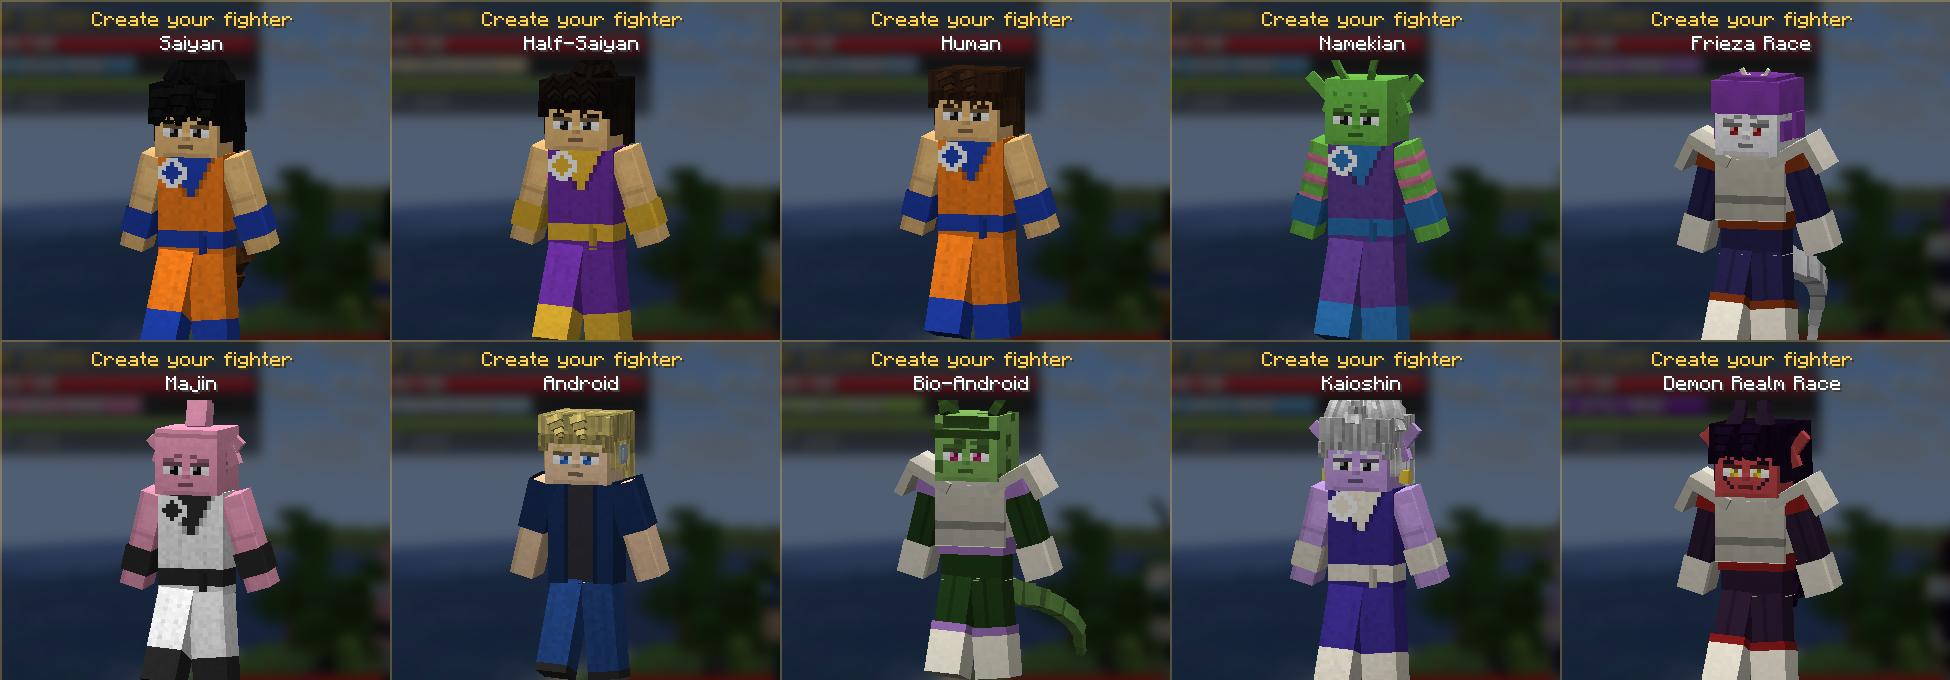
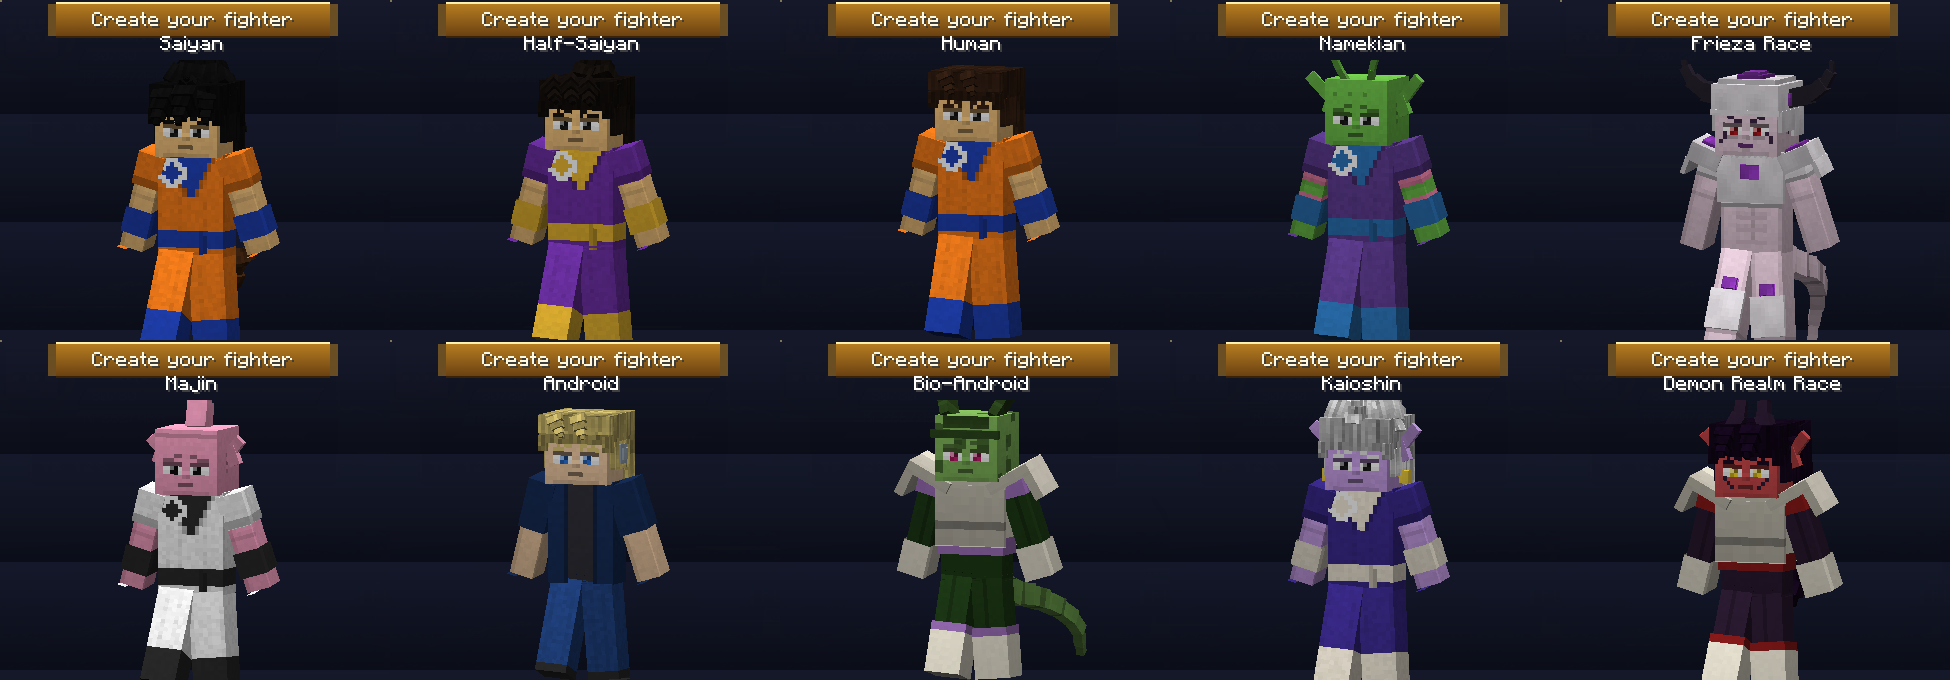
Redesign Frieza Race look after the first form and add Natural outfit

diff --git a/common/src/main/java/com/dbtenkaichi/client/render/TenkaichiModels.java b/common/src/main/java/com/dbtenkaichi/client/render/TenkaichiModels.java
@@ -50,7 +50,19 @@ public final class TenkaichiModels {
     public enum FeatureTint {
         SKIN,
         ACCENT,
-        HORN
+        HORN,
+        PLATE,
+        GEM,
+        BODY_PLATE,
+        BODY_GEM;
+
+        public boolean bodyOnly() {
+            return this == BODY_PLATE || this == BODY_GEM;
+        }
+
+        public boolean gem() {
+            return this == GEM || this == BODY_GEM;
+        }
     }
 
     private TenkaichiModels() {
@@ -273,18 +285,62 @@ public final class TenkaichiModels {
                 }
             }
             case FRIEZA_RACE -> {
-                if (tint == FeatureTint.ACCENT) {
-                    head.addOrReplaceChild("dome", CubeListBuilder.create().texOffs(0, 0)
-                            .addBox(-4.45f, -9.1f, -4.3f, 8.9f, 4.0f, 8.9f)
-                            .texOffs(0, 16).addBox(-3.6f, -9.6f, -3.2f, 7.2f, 0.6f, 7.0f)
-                            .texOffs(0, 24).addBox(-4.5f, -5.0f, 1.5f, 9.0f, 3.2f, 3.1f), PartPose.ZERO);
-                    head.addOrReplaceChild("cheek_l", CubeListBuilder.create().texOffs(32, 24).addBox(-4.55f, -4.2f, -3.0f, 0.5f, 2.4f, 3.0f), PartPose.ZERO);
-                    head.addOrReplaceChild("cheek_r", CubeListBuilder.create().texOffs(32, 24).addBox(4.05f, -4.2f, -3.0f, 0.5f, 2.4f, 3.0f), PartPose.ZERO);
-                } else if (tint == FeatureTint.HORN) {
-                    b.curved(-4.0f, -7.2f, -0.6f, 0.0f, 0.0f, 1.45f, 7.0f, 1.9f, -0.32f, 0.0f);
-                    b.curved(4.0f, -7.2f, -0.6f, 0.0f, 0.0f, -1.45f, 7.0f, 1.9f, 0.32f, 0.0f);
-                } else {
-                    any = false;
+                PartDefinition root = mesh.getRoot();
+                switch (tint) {
+                    case PLATE -> {
+                        head.addOrReplaceChild("dome", CubeListBuilder.create().texOffs(0, 0)
+                                .addBox(-4.4f, -8.7f, -4.45f, 8.8f, 3.3f, 8.9f)
+                                .texOffs(0, 14).addBox(-3.7f, -9.3f, -3.7f, 7.4f, 0.7f, 7.4f)
+                                .texOffs(0, 24).addBox(-4.45f, -5.5f, 1.0f, 8.9f, 3.4f, 3.5f), PartPose.ZERO);
+                        head.addOrReplaceChild("brow", CubeListBuilder.create().texOffs(0, 34)
+                                .addBox(-4.45f, -5.6f, -4.5f, 8.9f, 0.7f, 0.6f), PartPose.ZERO);
+                        head.addOrReplaceChild("cheek_l", CubeListBuilder.create().texOffs(32, 24)
+                                .addBox(-4.55f, -5.5f, -3.6f, 0.6f, 2.6f, 4.8f), PartPose.ZERO);
+                        head.addOrReplaceChild("cheek_r", CubeListBuilder.create().texOffs(32, 24)
+                                .addBox(3.95f, -5.5f, -3.6f, 0.6f, 2.6f, 4.8f), PartPose.ZERO);
+                    }
+                    case GEM -> {
+                        head.addOrReplaceChild("crown_gem", CubeListBuilder.create().texOffs(0, 0)
+                                .addBox(-1.7f, -9.75f, -2.6f, 3.4f, 0.6f, 4.4f)
+                                .texOffs(0, 8).addBox(-1.1f, -10.05f, -1.9f, 2.2f, 0.4f, 3.0f), PartPose.ZERO);
+                        head.addOrReplaceChild("side_gem_l", CubeListBuilder.create().texOffs(16, 0)
+                                .addBox(-4.75f, -7.6f, -1.2f, 0.4f, 1.6f, 2.4f), PartPose.ZERO);
+                        head.addOrReplaceChild("side_gem_r", CubeListBuilder.create().texOffs(16, 0)
+                                .addBox(4.35f, -7.6f, -1.2f, 0.4f, 1.6f, 2.4f), PartPose.ZERO);
+                    }
+                    case HORN -> {
+                        b.curved(-4.2f, -6.8f, 0.4f, 0.0f, 0.0f, -1.35f, 8.0f, 2.3f, 0.42f, 0.0f);
+                        b.curved(4.2f, -6.8f, 0.4f, 0.0f, 0.0f, 1.35f, 8.0f, 2.3f, -0.42f, 0.0f);
+                    }
+                    case BODY_PLATE -> {
+                        root.getChild("body").addOrReplaceChild("chest", CubeListBuilder.create().texOffs(0, 0)
+                                .addBox(-4.3f, -0.3f, -2.5f, 8.6f, 6.2f, 0.7f)
+                                .texOffs(0, 8).addBox(-4.3f, -0.3f, 1.8f, 8.6f, 6.2f, 0.7f)
+                                .texOffs(0, 16).addBox(-4.3f, -0.4f, -2.5f, 8.6f, 0.8f, 5.0f), PartPose.ZERO);
+                        root.getChild("right_arm").addOrReplaceChild("shoulder", CubeListBuilder.create().texOffs(0, 24)
+                                .addBox(-3.6f, -2.6f, -2.5f, 4.2f, 2.4f, 5.0f)
+                                .texOffs(0, 32).addBox(-3.75f, -0.4f, -2.4f, 0.6f, 2.2f, 4.8f), PartPose.rotation(0.0f, 0.0f, 0.12f));
+                        root.getChild("left_arm").addOrReplaceChild("shoulder", CubeListBuilder.create().texOffs(0, 24).mirror()
+                                .addBox(-0.6f, -2.6f, -2.5f, 4.2f, 2.4f, 5.0f)
+                                .texOffs(0, 32).addBox(3.15f, -0.4f, -2.4f, 0.6f, 2.2f, 4.8f), PartPose.rotation(0.0f, 0.0f, -0.12f));
+                        root.getChild("right_leg").addOrReplaceChild("shin", CubeListBuilder.create().texOffs(0, 40)
+                                .addBox(-2.2f, 5.5f, -2.45f, 4.4f, 5.0f, 0.6f), PartPose.ZERO);
+                        root.getChild("left_leg").addOrReplaceChild("shin", CubeListBuilder.create().texOffs(0, 40)
+                                .addBox(-2.2f, 5.5f, -2.45f, 4.4f, 5.0f, 0.6f), PartPose.ZERO);
+                    }
+                    case BODY_GEM -> {
+                        root.getChild("body").addOrReplaceChild("chest_gem", CubeListBuilder.create().texOffs(0, 0)
+                                .addBox(-1.2f, 1.2f, -2.75f, 2.4f, 1.8f, 0.4f), PartPose.ZERO);
+                        root.getChild("right_arm").addOrReplaceChild("shoulder_gem", CubeListBuilder.create().texOffs(0, 8)
+                                .addBox(-2.7f, -2.95f, -1.4f, 2.4f, 0.5f, 2.8f), PartPose.rotation(0.0f, 0.0f, 0.12f));
+                        root.getChild("left_arm").addOrReplaceChild("shoulder_gem", CubeListBuilder.create().texOffs(0, 8)
+                                .addBox(0.3f, -2.95f, -1.4f, 2.4f, 0.5f, 2.8f), PartPose.rotation(0.0f, 0.0f, -0.12f));
+                        root.getChild("right_leg").addOrReplaceChild("knee_gem", CubeListBuilder.create().texOffs(0, 16)
+                                .addBox(-0.9f, 4.0f, -2.6f, 1.8f, 1.4f, 0.4f), PartPose.ZERO);
+                        root.getChild("left_leg").addOrReplaceChild("knee_gem", CubeListBuilder.create().texOffs(0, 16)
+                                .addBox(-0.9f, 4.0f, -2.6f, 1.8f, 1.4f, 0.4f), PartPose.ZERO);
+                    }
+                    default -> any = false;
                 }
             }
             case MAJIN -> {

diff --git a/common/src/main/java/com/dbtenkaichi/client/render/CustomSkins.java b/common/src/main/java/com/dbtenkaichi/client/render/CustomSkins.java
@@ -102,10 +102,11 @@ public final class CustomSkins {
             face();
             ears();
             raceDetails();
-            switch (Math.max(0, Math.min(2, a.outfit))) {
+            switch (Math.max(0, Math.min(Appearance.OUTFITS - 1, a.outfit))) {
                 case 0 -> gi();
                 case 1 -> armor();
-                default -> casual();
+                case 2 -> casual();
+                default -> natural();
             }
             return img;
         }
@@ -245,7 +246,7 @@ public final class CustomSkins {
         private void face() {
             int fx = 8 * S;
             int fy = 8 * S;
-            int brow = bald ? shade(skin, 0.6f) : shade(hairColor, 0.9f);
+            int brow = race == Race.FRIEZA_RACE ? 0x3A2440 : bald ? shade(skin, 0.6f) : shade(hairColor, 0.9f);
             int browY = fy + 6;
             switch (a.eyebrowStyle) {
                 case 1 -> {
@@ -387,14 +388,44 @@ public final class CustomSkins {
                     }
                 }
                 case FRIEZA_RACE -> {
-                    rect(8 * S, 0, 16, 16, feature, 1.1f, 0.95f, 0.04f);
-                    rect(24 * S, 8 * S, 16, 8, feature, 1.0f, 0.9f, 0.04f);
-                    rect(20 * S + 2, 20 * S + 2, 12, 10, feature, 1.12f, 0.95f, 0.04f);
-                    for (int[] limb : new int[][]{{44, 16}, {36, 48}}) {
-                        rect(limb[0] * S, (limb[1] + 4) * S, 8, 4, feature, 1.1f, 1.0f, 0.04f);
-                    }
-                    for (int[] leg : new int[][]{{4, 16}, {20, 48}}) {
-                        rect(leg[0] * S, (leg[1] + 4) * S + 12, 8, 6, feature, 1.1f, 0.95f, 0.04f);
+                    int plate = TenkaichiLayers.plateColor(skin);
+                    int dark = 0x3A2440;
+                    rect(8 * S, 0, 16, 16, plate, 1.08f, 0.96f, 0.03f);
+                    rect(0, 8 * S, 16, 7, plate, 0.95f, 0.88f, 0.03f);
+                    rect(16 * S, 8 * S, 16, 7, plate, 0.95f, 0.88f, 0.03f);
+                    rect(24 * S, 8 * S, 16, 9, plate, 0.9f, 0.82f, 0.03f);
+                    rect(8 * S, 8 * S, 16, 5, plate, 1.06f, 0.98f, 0.03f);
+                    rect(8 * S + 6, 2, 4, 6, feature, 1.15f, 0.85f, 0.02f);
+                    int fx = 8 * S;
+                    int fy = 8 * S;
+                    line(fx, fy + 5, fx + 15, fy + 5, shade(plate, 0.7f));
+                    line(fx + 2, fy + 10, fx + 1, fy + 12, dark);
+                    line(fx + 13, fy + 10, fx + 14, fy + 12, dark);
+                    line(fx + 3, fy + 11, fx + 5, fy + 11, shade(skin, 0.75f));
+                    line(fx + 10, fy + 11, fx + 12, fy + 11, shade(skin, 0.75f));
+                    line(fx + 6, fy + 13, fx + 9, fy + 13, 0x5A2A68);
+                    line(fx + 7, fy + 14, fx + 8, fy + 14, shade(skin, 0.8f));
+                    px(0 * S + 7, 8 * S + 10, dark);
+                    px(16 * S + 8, 8 * S + 10, dark);
+                    if (a.outfit == Appearance.OUTFIT_NATURAL) {
+                        rect(20 * S, 20 * S, 16, 12, plate, 1.08f, 0.95f, 0.03f);
+                        rect(32 * S, 20 * S, 16, 12, plate, 0.85f, 0.78f, 0.03f);
+                        line(20 * S + 7, 20 * S + 2, 20 * S + 7, 20 * S + 11, shade(plate, 0.8f));
+                        line(20 * S, 20 * S + 12, 20 * S + 15, 20 * S + 12, shade(plate, 0.6f));
+                        rect(20 * S + 6, 20 * S + 3, 4, 3, feature, 1.15f, 0.85f, 0.02f);
+                        for (int row = 15; row < 23; row += 3) {
+                            line(20 * S + 4, 20 * S + row, 20 * S + 11, 20 * S + row, shade(skin, 0.86f));
+                        }
+                        for (int[] limb : new int[][]{{40, 16}, {32, 48}}) {
+                            rect((limb[0] + 4) * S, limb[1] * S, 8, 8, plate, 1.1f, 1.0f, 0.03f);
+                            rect(limb[0] * S, (limb[1] + 4) * S, 32, 5, plate, 1.0f, 0.9f, 0.03f);
+                            line(limb[0] * S, (limb[1] + 4) * S + 5, limb[0] * S + 31, (limb[1] + 4) * S + 5, shade(plate, 0.65f));
+                        }
+                        for (int[] leg : new int[][]{{0, 16}, {16, 48}}) {
+                            rect((leg[0] + 4) * S, (leg[1] + 4) * S + 11, 8, 10, plate, 1.06f, 0.94f, 0.03f);
+                            rect((leg[0] + 4) * S + 2, (leg[1] + 4) * S + 8, 4, 3, feature, 1.15f, 0.85f, 0.02f);
+                            line(leg[0] * S, (leg[1] + 4) * S + 21, leg[0] * S + 31, (leg[1] + 4) * S + 21, shade(skin, 0.7f));
+                        }
                     }
                 }
                 case MAJIN -> {
@@ -606,6 +637,22 @@ public final class CustomSkins {
             coverTops(suit, suit);
             hd(44, 32, 4, 4, plate, 1.1f, 1.0f, 0.03f);
             hd(52, 48, 4, 4, plate, 1.1f, 1.0f, 0.03f);
+        }
+
+        private void natural() {
+            overlayClear();
+            if (race == Race.FRIEZA_RACE) {
+                return;
+            }
+            int shorts = a.outfitPrimary;
+            int belt = a.outfitSecondary;
+            faceRows(16, 16, 8, 12, 4, 9, 12, shorts, 0.06f);
+            faceRows(16, 16, 8, 12, 4, 9, 10, belt, 0.04f);
+            faceRows(0, 16, 4, 12, 4, 0, 5, shorts, 0.06f);
+            faceRows(16, 48, 4, 12, 4, 0, 5, shorts, 0.06f);
+            hd(4, 16, 4, 4, shorts, 0.8f, 0.75f, 0.05f);
+            hd(20, 48, 4, 4, shorts, 0.8f, 0.75f, 0.05f);
+            hd(28, 16, 8, 4, shorts, 0.7f, 0.65f, 0.05f);
         }
 
         private void casual() {

diff --git a/common/src/main/java/com/dbtenkaichi/client/render/TenkaichiLayers.java b/common/src/main/java/com/dbtenkaichi/client/render/TenkaichiLayers.java
@@ -5,6 +5,7 @@ import com.dbtenkaichi.client.ClientState;
 import com.dbtenkaichi.client.EntityVisual;
 import com.dbtenkaichi.config.ClientConfig;
 import com.dbtenkaichi.config.ConfigManager;
+import com.dbtenkaichi.player.Appearance;
 import com.dbtenkaichi.player.HairStyle;
 import com.dbtenkaichi.race.Race;
 import com.dbtenkaichi.race.RacePassive;
@@ -34,6 +35,7 @@ public final class TenkaichiLayers {
     public static final Identifier HAIR_TEXTURE = Tenkaichi.id("textures/entity/hair.png");
     public static final Identifier TAIL_TEXTURE = Tenkaichi.id("textures/entity/tail.png");
     public static final Identifier AURA_TEXTURE = Tenkaichi.id("textures/entity/aura_swirl.png");
+    public static final Identifier GEM_TEXTURE = Tenkaichi.id("textures/entity/gem.png");
     public static final Identifier FEATURE_TEXTURE = Tenkaichi.id("textures/entity/feature.png");
     public static final Identifier THICK_TAIL_TEXTURE = Tenkaichi.id("textures/entity/thick_tail.png");
     public static final Identifier ARMOR_PAD_TEXTURE = Tenkaichi.id("textures/entity/armor_pad.png");
@@ -189,19 +191,30 @@ public final class TenkaichiLayers {
                 if (byTint == null) {
                     return;
                 }
+                boolean natural = visual.appearance.outfit == Appearance.OUTFIT_NATURAL;
                 for (Map.Entry<TenkaichiModels.FeatureTint, HairModel> entry : byTint.entrySet()) {
-                    int color = switch (entry.getKey()) {
+                    TenkaichiModels.FeatureTint tint = entry.getKey();
+                    if (tint.bodyOnly() && !natural) {
+                        continue;
+                    }
+                    int color = switch (tint) {
                         case SKIN -> visual.appearance.skinColor;
-                        case ACCENT -> visual.appearance.featureColor;
-                        case HORN -> visual.race == Race.FRIEZA_RACE ? 0xE8E2D4 : visual.appearance.featureColor;
+                        case ACCENT, GEM, BODY_GEM -> visual.appearance.featureColor;
+                        case HORN -> visual.race == Race.FRIEZA_RACE ? 0x2A2430 : visual.appearance.featureColor;
+                        case PLATE, BODY_PLATE -> plateColor(visual.appearance.skinColor);
                     };
-                    collector.submitModel(entry.getValue(), state, poseStack, RenderTypes.entityCutout(FEATURE_TEXTURE), light, OverlayTexture.NO_OVERLAY,
+                    Identifier texture = tint.gem() ? GEM_TEXTURE : FEATURE_TEXTURE;
+                    collector.submitModel(entry.getValue(), state, poseStack, RenderTypes.entityCutout(texture), light, OverlayTexture.NO_OVERLAY,
                             0xFF000000 | color, null, state.outlineColor);
                 }
             } catch (RuntimeException e) {
                 RenderGuard.report("feature", e);
             }
         }
+    }
+
+    public static int plateColor(int skin) {
+        return EntityVisual.mix(0xF6F4F8, skin, 0.12f);
     }
 
     static final class GearLayer extends RenderLayer<AvatarRenderState, PlayerModel> {

diff --git a/common/src/main/java/com/dbtenkaichi/client/screen/CharacterCreatorScreen.java b/common/src/main/java/com/dbtenkaichi/client/screen/CharacterCreatorScreen.java
@@ -34,12 +34,12 @@ public class CharacterCreatorScreen extends Screen {
     private static final int[] OUTFIT_COLORS = {0xF07A1A, 0x1F3FAE, 0x1C1C2A, 0xEDE7D6, 0x7A1C1C, 0x2F6B3A, 0x5A2F8A, 0xD9B21A, 0x3A3A3A, 0x8FB8E8, 0xC8C8C8, 0xF2F2F2};
 
     private static final int[] NAMEKIAN_SKIN = {0x6DBF4A, 0x5AA63C, 0x7FD05A, 0x4E8F34, 0x8CC86A, 0x3F7A2C};
-    private static final int[] FRIEZA_SKIN = {0xF2F0F4, 0xE4DCEC, 0xD8D8E0, 0xC8B8D8, 0xB8A0C8, 0xE8E0D0};
+    private static final int[] FRIEZA_SKIN = {0xE6CCDA, 0xEED8E4, 0xDCC4E2, 0xD8D0E8, 0xC8B0D0, 0xE8DCD0, 0xB8A8C8, 0x9C88B0};
     private static final int[] MAJIN_SKIN = {0xF4A0C0, 0xE88AB0, 0xF8B8D0, 0xD8789E, 0xC890D8, 0x9A9AA6};
     private static final int[] BIO_SKIN = {0x7FB45A, 0x6A9E48, 0x92C46E, 0x5A8A3E, 0x9AB070};
     private static final int[] KAIOSHIN_SKIN = {0xC8A0E8, 0xB890DC, 0xD8B8F0, 0x9AA8E8, 0xA8D0F0, 0xE0B8D8};
     private static final int[] DEMON_SKIN = {0xC8484A, 0xA83034, 0x4A6ED8, 0x3A4AA8, 0x7A3A9A, 0xD87050, 0x5A5A6A};
-    private static final int[] FEATURE_COLORS = {0xD8789A, 0x8E3FB8, 0xE07AA4, 0x2E4A1E, 0x9AA7B4, 0xF0D040, 0x2A1A30, 0xB0141E, 0x3FA8FF, 0xF2F2F2, 0x1C1C2A, 0xE8902A};
+    private static final int[] FEATURE_COLORS = {0xD8789A, 0x8E3FB8, 0xE07AA4, 0x2E4A1E, 0x9AA7B4, 0xF0D040, 0x2A1A30, 0xB0141E, 0x3FA8FF, 0xF2F2F2, 0x1C1C2A, 0xE8902A, 0x2F5FD0, 0xB0309A};
 
     private final List<Race> races = new ArrayList<>();
     private final float minHeight;

diff --git a/common/src/main/java/com/dbtenkaichi/player/Appearance.java b/common/src/main/java/com/dbtenkaichi/player/Appearance.java
@@ -10,7 +10,8 @@ public final class Appearance {
     public static final int HAIR_STYLES = HairStyle.PLAYER_SELECTABLE;
     public static final int EXPRESSIONS = 4;
     public static final int VOICES = 4;
-    public static final int OUTFITS = 3;
+    public static final int OUTFITS = 4;
+    public static final int OUTFIT_NATURAL = 3;
     public static final int BODY_BUILDS = 3;
 
     public int presentation;
@@ -136,11 +137,12 @@ public final class Appearance {
                 a.outfitSecondary = 0x2A6FB0;
             }
             case FRIEZA_RACE -> {
-                a.skinColor = 0xF2F0F4;
-                a.featureColor = 0x8E3FB8;
+                a.skinColor = 0xE6CCDA;
+                a.featureColor = 0x9A3CC8;
                 a.eyeColor = 0xB0141E;
                 a.auraColor = 0xC890FF;
-                a.outfit = 1;
+                a.eyebrowStyle = 1;
+                a.outfit = OUTFIT_NATURAL;
                 a.outfitPrimary = 0x24204A;
                 a.outfitSecondary = 0x7A3010;
             }

diff --git a/tools/gen_textures.py b/tools/gen_textures.py
@@ -108,6 +108,22 @@ def armor_pad():
     img.save(path("textures", "entity", "armor_pad.png"))
 
 
+def gem():
+    size = 128
+    img = Image.new("RGBA", (size, size))
+    px = img.load()
+    for x in range(size):
+        for y in range(size):
+            u = (x % 16) / 15.0
+            v = (y % 16) / 15.0
+            base = 0.62 + 0.38 * (1.0 - v) ** 1.4
+            spec = math.exp(-((u - 0.3) ** 2 + (v - 0.22) ** 2) / 0.012)
+            rim = 0.85 if (x % 16 in (0, 15) or y % 16 in (0, 15)) else 1.0
+            g = clamp8((base * rim + spec * 0.55) * 230)
+            px[x, y] = (g, g, g, 255)
+    img.save(path("textures", "entity", "gem.png"))
+
+
 def aura_swirl():
     size = 64
     img = Image.new("RGBA", (size, size))
@@ -195,5 +211,6 @@ if __name__ == "__main__":
     feature()
     thick_tail()
     armor_pad()
+    gem()
     aura_swirl()
     print("textures and item models generated")

diff --git a/tools/gen_lang.py b/tools/gen_lang.py
@@ -224,7 +224,7 @@ def build():
         add("screen.dbtenkaichi.creator.build.%d" % n, e, i)
     for n, (e, i) in enumerate([("Calm", "Calma"), ("Focused", "Concentrata"), ("Fierce", "Feroce"), ("Cheerful", "Allegra")]):
         add("screen.dbtenkaichi.creator.expression.%d" % n, e, i)
-    for n, (e, i) in enumerate([("Martial arts gi", "Gi da arti marziali"), ("Battle armor", "Armatura da battaglia"), ("Casual", "Casual")]):
+    for n, (e, i) in enumerate([("Martial arts gi", "Gi da arti marziali"), ("Battle armor", "Armatura da battaglia"), ("Casual", "Casual"), ("Natural", "Naturale")]):
         add("screen.dbtenkaichi.creator.outfit.%d" % n, e, i)
     add("screen.dbtenkaichi.creator.style", "Style %s", "Stile %s")
     add("screen.dbtenkaichi.creator.voice_value", "Voice %s", "Voce %s")

diff --git a/docs/FEATURES.md b/docs/FEATURES.md
@@ -12,9 +12,10 @@ la colonna "Verifica" indica come è stata provata (vedi `TESTING.md`).
 | Personaggio | 10 razze giocabili: Saiyan, Mezzo-Saiyan, Umano, Namecciano, Razza di Freezer, Majin, Androide, Bio-Androide, Kaioshin, Razza del Regno Demoniaco | Implementata | JUnit + client (galleria) |
 | Personaggio | Passive razziali con effetto reale lato server (vedi tabella sotto) | Implementata | JUnit (distinzione), codice; effetti non provati in gioco |
 | Personaggio | Aspetto predefinito, palette della pelle e "colore dettagli" diversi per razza | Implementata | client scriptato |
-| Personaggio | Modelli 3D razziali: antenne e orecchie (Namecciano), cupola, corna e coda spessa (Freezer), antenna (Majin), cresta e coda a pungiglione (Bio-Androide), auricolari (Androide), orecchie a punta e orecchini (Kaioshin), corna e orecchie (Demoniaca) | Implementata | client scriptato (screenshot) |
+| Personaggio | Modelli 3D razziali: antenne e orecchie (Namecciano), aspetto della prima forma (pelle rosa-lilla, cupola, guance, spalline e placca pettorale bianche, gemme colorate, corna scure curve verso l'alto, coda spessa) per la Razza di Freezer, antenna (Majin), cresta e coda a pungiglione (Bio-Androide), auricolari (Androide), orecchie a punta e orecchini (Kaioshin), corna e orecchie (Demoniaca) | Implementata | client scriptato (screenshot) |
 | Personaggio | Skin procedurale HD 128×128: ombreggiatura, muscoli, viso dettagliato (palpebre, iridi, riflessi, naso, orecchie), abiti 3D sui layer esterni con pieghe, cintura, emblema, stivali; dettagli razziali (bande sulle braccia, macchie, placche) | Implementata | client scriptato |
 | Personaggio | Armatura con spalline e pettorale 3D; barba e baffi del Maestro | Implementata | client scriptato |
+| Personaggio | Outfit "Naturale": corpo con corazza biologica per la Razza di Freezer, pantaloncini per le altre razze | Implementata | client scriptato (galleria) |
 | Personaggio | 7 acconciature selezionabili + 3 di trasformazione con ciocche curve a 4 segmenti, texture capelli HD; coda Saiyan a 8 segmenti animata | Implementata | client scriptato |
 | Personaggio | Altezza (attributo `scale`) e corporatura (larghezza modello) | Implementata | client scriptato |
 | Statistiche | 12 statistiche, TP, costo superlineare, cap da Potenziale, pratica | Implementata | JUnit |

diff --git a/docs/PROGRESS.md b/docs/PROGRESS.md
@@ -95,3 +95,11 @@ Nessuna verifica automatica fallisce allo stato attuale.
 - Aura base che formava un "cappuccio" conico sopra la testa → raggio non più rastremato e dissolvenza anticipata.
 - Bagliori del raggio troppo grandi → ridotti.
 - Testo troncato nei pulsanti stretti → ridimensionamento automatico del testo.
+
+### Aggiornamento — Razza di Freezer
+- Aspetto ridisegnato sulla prima forma (stile Freezer/Frost/Cooler base): pelle rosa-lilla, corazza
+  biologica bianca (cupola, guance, spalle, petto, stinchi), gemme nel colore dettagli (viola di default,
+  blu disponibile), corna scure, occhi rossi con segni scuri, labbra viola, coda spessa.
+- Nuovo outfit "Naturale" (default per questa razza); placche e gemme del corpo visibili solo con esso.
+- Verificato con la galleria del test client su Fabric e NeoForge (`docs/screenshots/frieza_race_first_form.png`).
+- Primo tentativo: corna ruotate verso l'interno della testa → corretta la rotazione.
